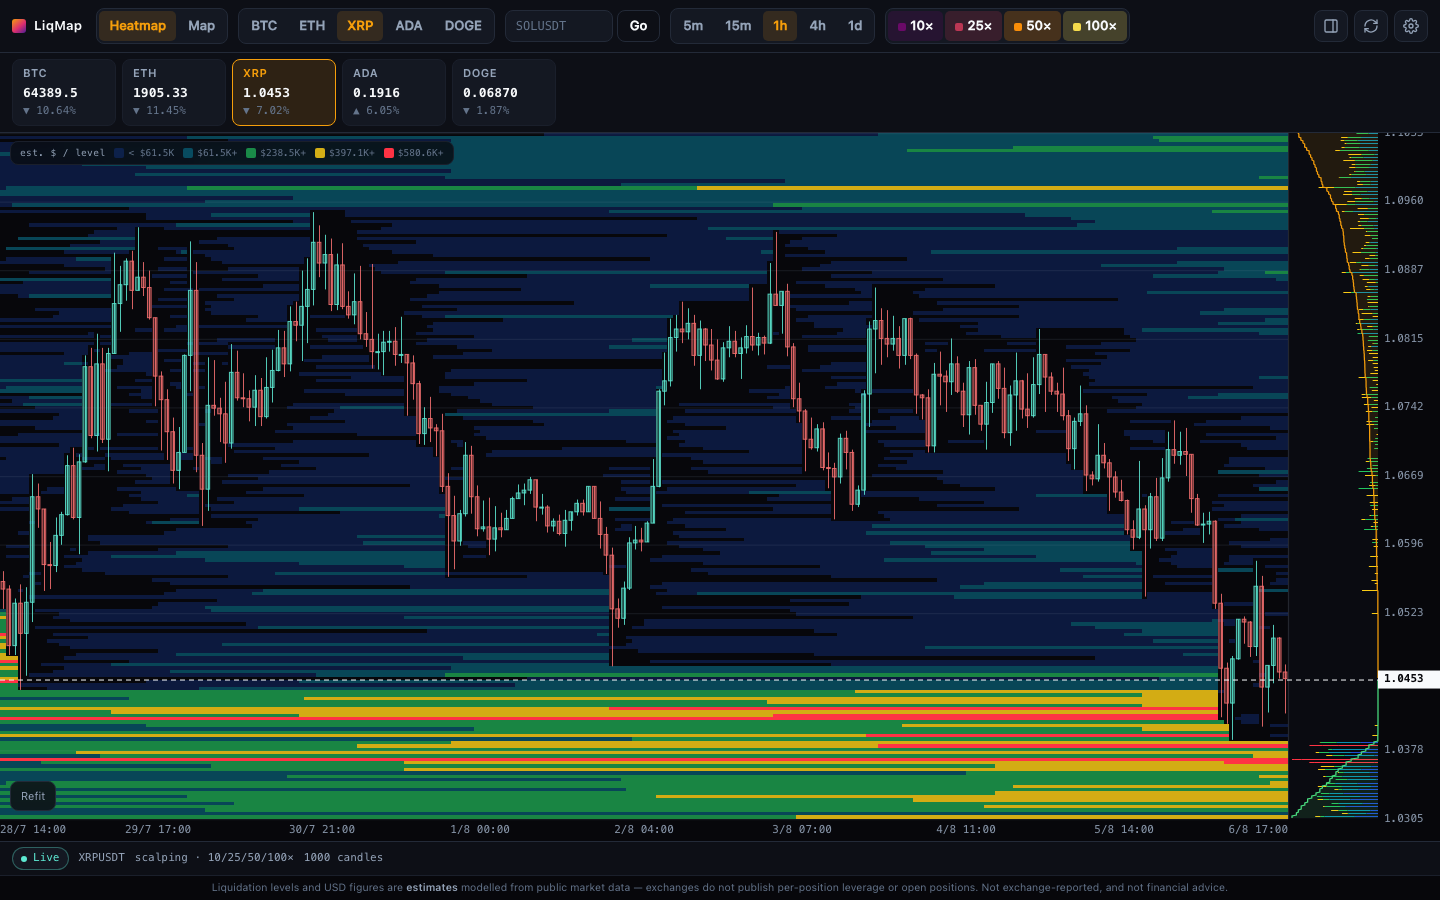
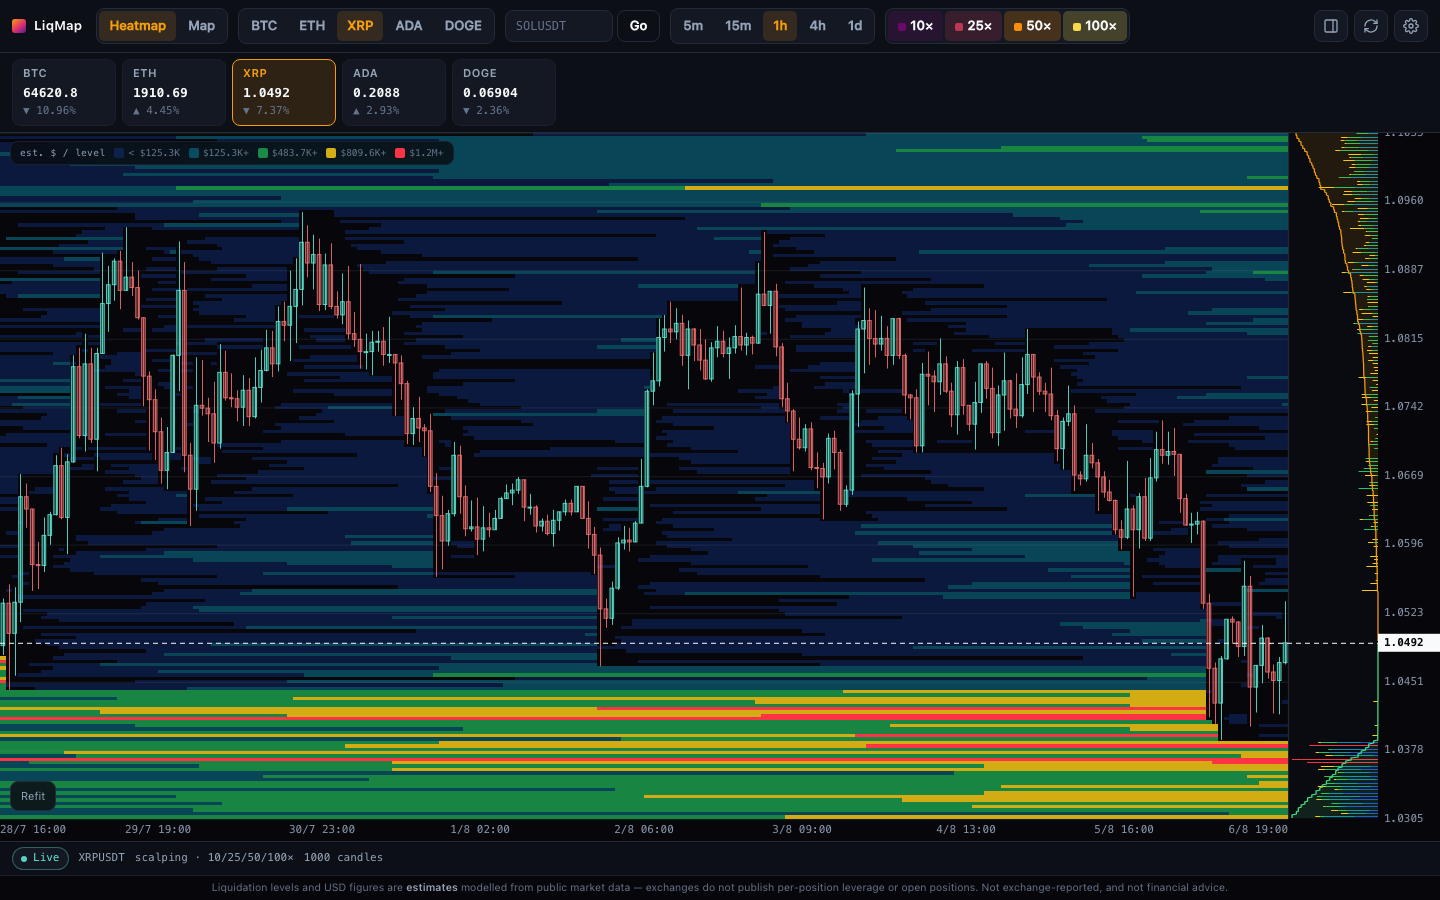
docs: per-side OI anchoring, live screenshots

diff --git a/README.md b/README.md
@@ -36,11 +36,19 @@ those positions are already liquidated. That vertical edge is the moment the lev
 swept, and it is the single most informative thing on the chart.
 
 Figures are **estimated USD notional**, labelled "est." throughout, and **calibrated to open
-interest**: liquidations can only come from positions that are currently open, so the active
-unswept book is scaled to total the symbol's reported `openInterestValue`. Raw engine values
-are cumulative turnover over the whole window, which reaches billions — an order of magnitude
-more than could ever actually liquidate. The scale is one display multiplier; no engine value
-or rendering normalisation changes.
+interest**. Liquidations can only come from positions that are currently open, so the active
+unswept book is scaled to total the symbol's reported `openInterestValue` — raw engine values
+are cumulative turnover over the whole window and reach billions, far more than could ever
+liquidate.
+
+**Each side is anchored separately.** Open interest counts contracts, and every contract has
+a long holder and a short holder, so $227M of OI means $227M of longs standing *and* $227M of
+shorts. Scaling both sides against a single OI figure undercounts each by about two. Fully
+zoomed out, cumulative longs and cumulative shorts each converge on OI.
+
+Cumulative figures sum over the **whole loaded book** outward from current price, so zooming
+changes what you can see but never what the tooltip reports at a given price. These are
+display multipliers only; no engine value or rendering normalisation changes.
 
 ## Liquidation Map
 
